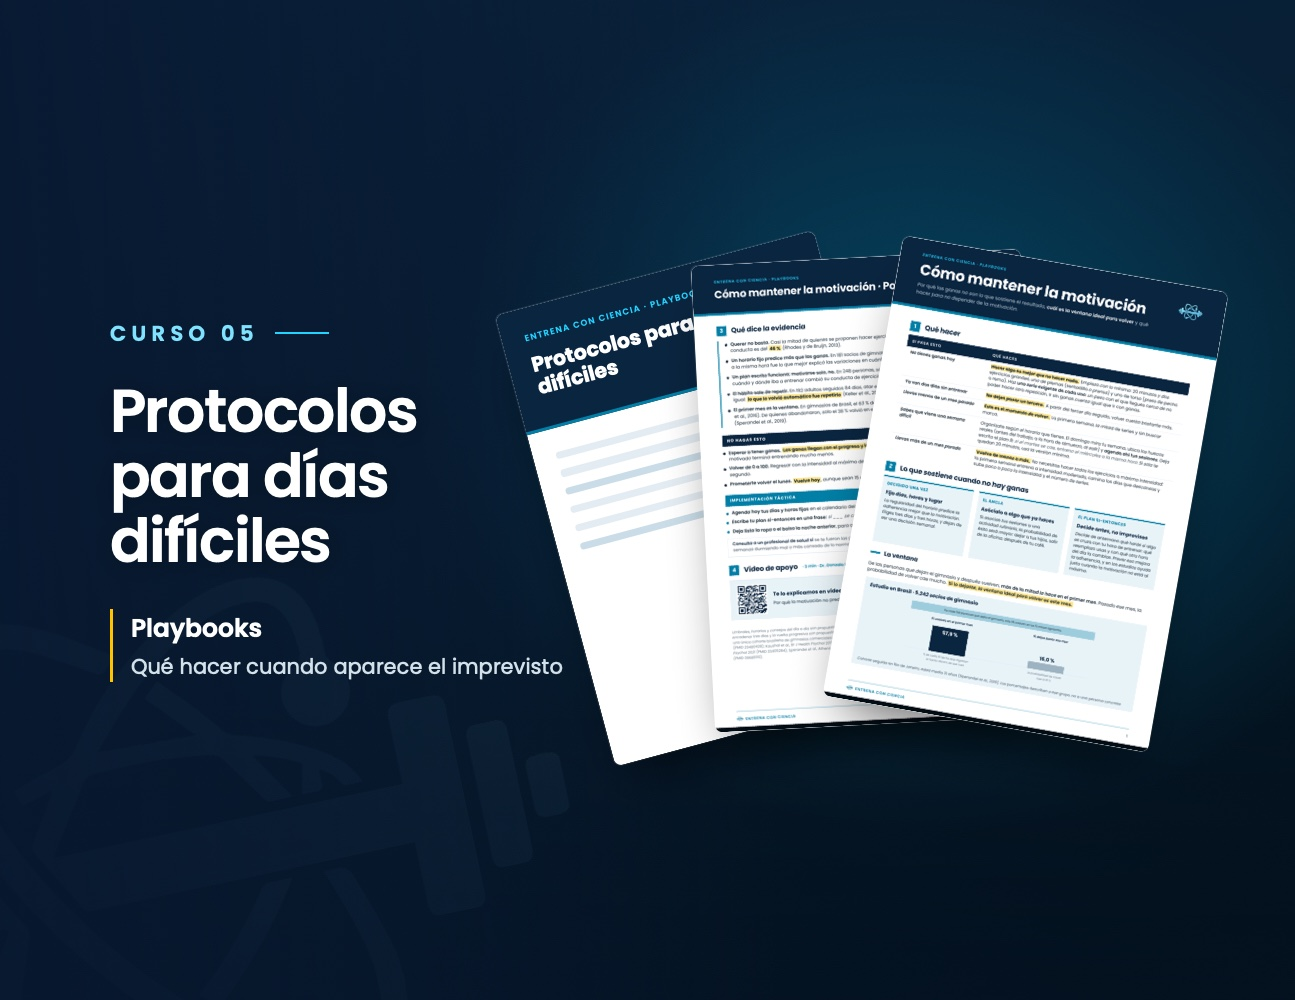
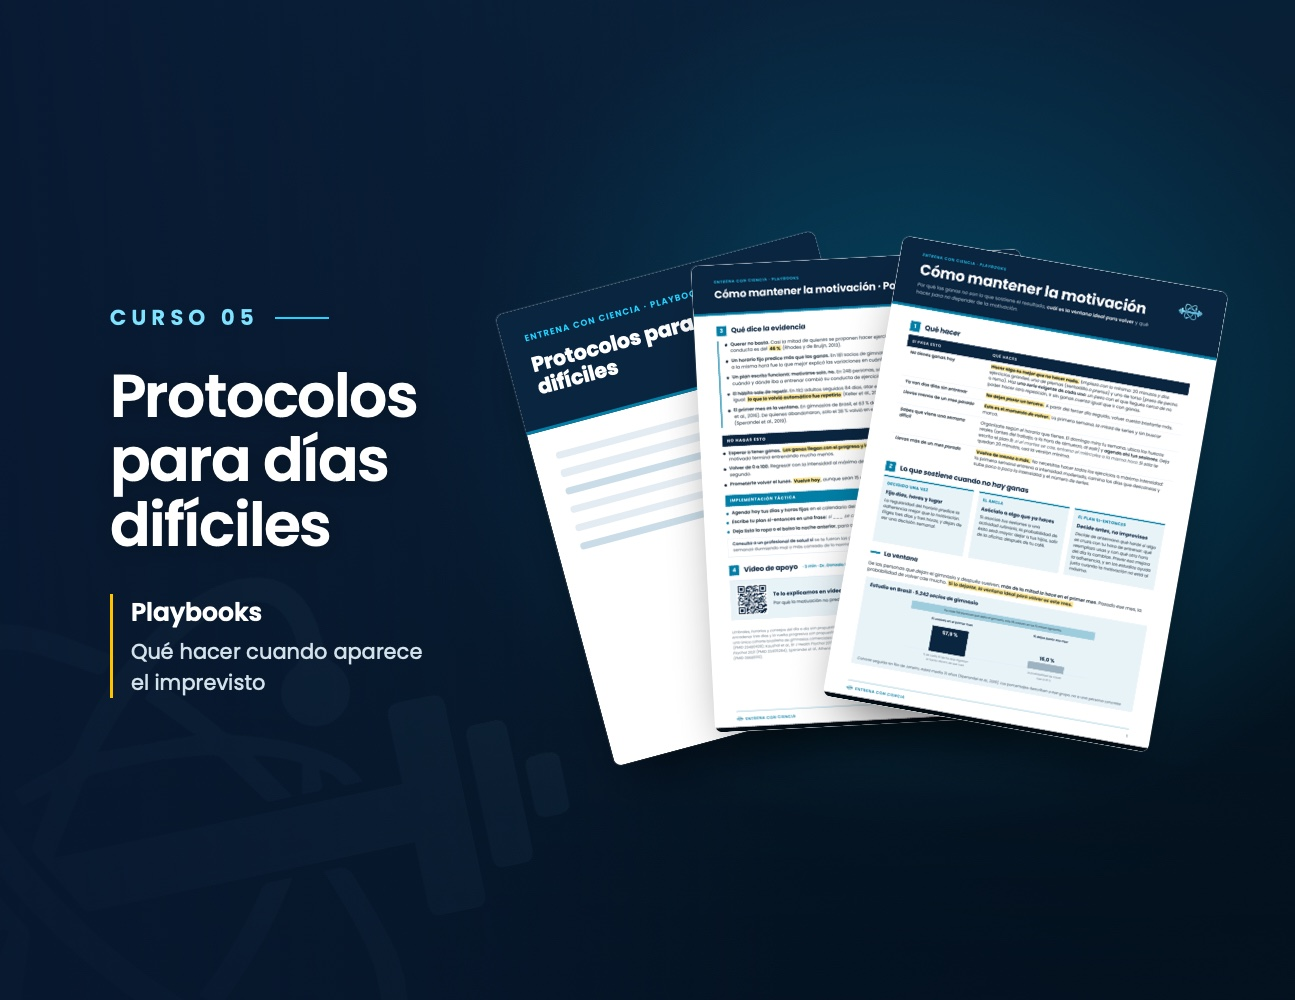
VSL: subtítulo de protocolos en dos líneas en escritorio

Changed region(s): [[0.0618, 0.372, 0.4324, 0.713], [0.0618, 0.31, 0.2471, 0.341]]

diff --git a/public/vsl/landing-escritorio.html b/public/vsl/landing-escritorio.html
@@ -398,7 +398,7 @@ setTimeout(revisar,0);addEventListener('load',function(){setTimeout(revisar,0)})
         </div>
         <div class="ecc-bezel ecc-bezel-on-dark" style="min-width:0;min-height:0">
           <div class="ecc-bezel-core ecc-bezel-core-on-dark" data-no-video="" style="position:relative;overflow:hidden;cursor:pointer;min-height:340px;height:100%">
-            <image-slot id="mod-protocolos" src="assets/portadas/protocolos-desk.jpg?v=4" shape="rect" placeholder="Video o portada de los protocolos"></image-slot>
+            <image-slot id="mod-protocolos" src="assets/portadas/protocolos-desk.jpg?v=5" shape="rect" placeholder="Video o portada de los protocolos"></image-slot>
           </div>
         </div>
       </div>
